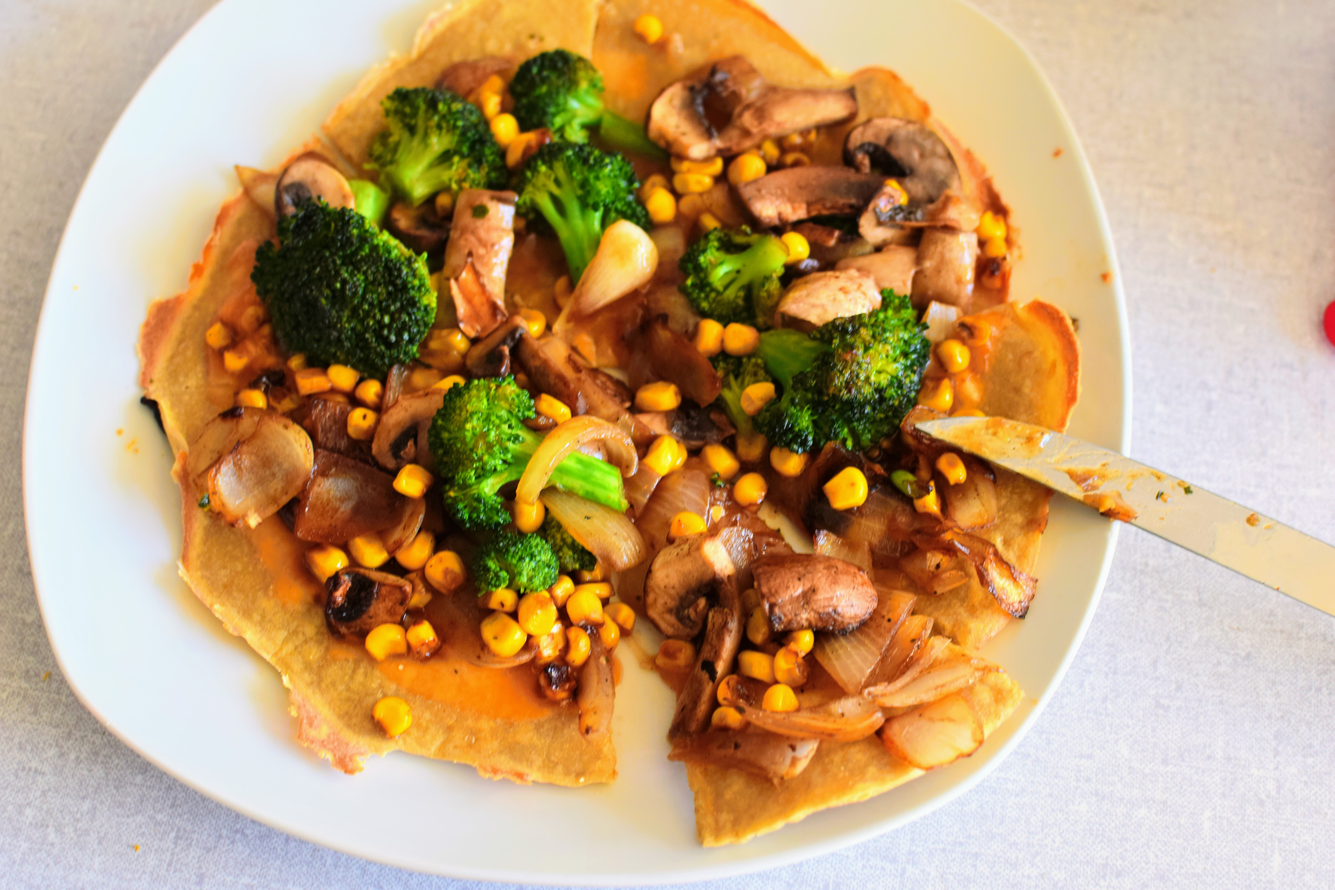
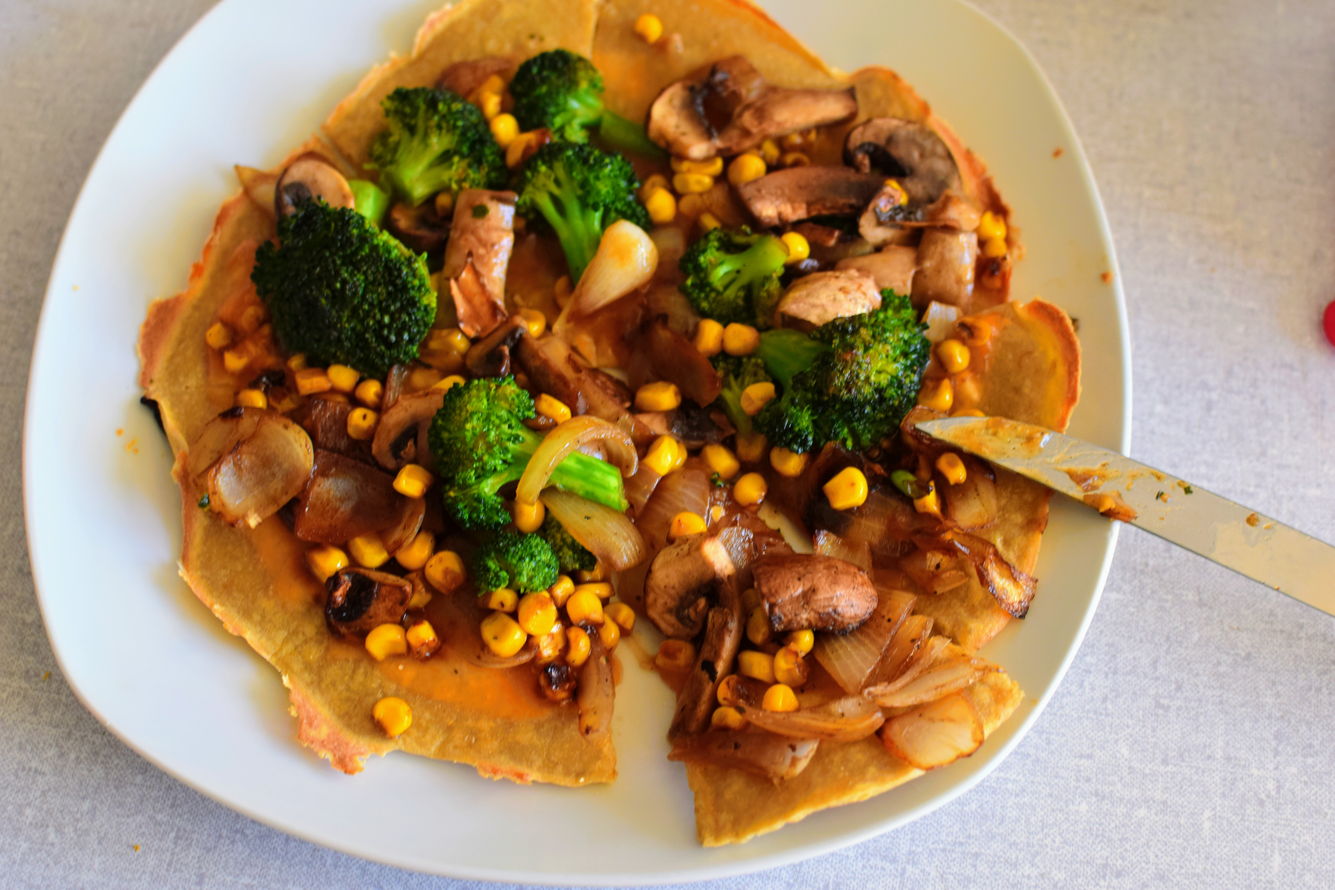
changed photo again

diff --git a/foods/quinoa-pizza/index.html b/foods/quinoa-pizza/index.html
@@ -256,7 +256,7 @@
 
 <figure role="group" aria-describedby="caption-4bf8ab49ad99d8e54900cbd9ca67604d">
   <a href="https://baohien97.github.io/foods/quinoa-pizza/quinoa-pizza-2.JPG" class="img-link">
-    <img src="https://baohien97.github.io/foods/quinoa-pizza/quinoa-pizza-2_hu772220bff564955f6c97680ca0c841af_2248349_700x0_resize_q75_box.JPG">
+    <img src="https://baohien97.github.io/foods/quinoa-pizza/quinoa-pizza-2_hue8a45cfebde90715fd6982ec1222400d_2049554_700x0_resize_q75_box.JPG">
   </a>
   <figcaption id="caption-4bf8ab49ad99d8e54900cbd9ca67604d">
     Easy Peasy Vegan Quinoa Pizza
